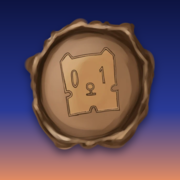
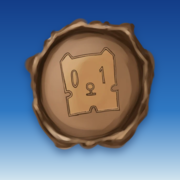
Switch to day theme

diff --git a/css/styles.css b/css/styles.css
@@ -1,26 +1,26 @@
 /* ==========================================================================
-   Hack the Toon: "Blue hour on the Tyne"
+   Hack the Toon: "A bright day on the Tyne"
 
    The page is painted in the same medium as the commissions: one watercolour
-   of the Tyne at dusk. A French ultramarine sky, spattered with white gouache
-   for stars, warms through violet and rose to the last light on the horizon,
-   and the river at the foot of the page catches the sunset. A moon rises
-   behind the magpie, the words sit on sheets of watercolour paper, and Metro
-   yellow is kept for the things you press.
+   of the Tyne on a clear summer's day. A deep cobalt sky, with clouds drifting
+   across it, pales to haze at the horizon, and the river at the foot of the
+   page glints in the sun. The sun sits behind the magpie, the words sit on
+   sheets of watercolour paper, and Metro yellow is kept for the things you
+   press.
    ========================================================================== */
 
 :root {
   /* The wash */
-  --night: #080c26;        /* the very top and bottom of the page, and the browser bars */
-  --indigo: #10184e;
-  --ultramarine: #1d3593;
+  --zenith: #133d88;       /* the very top and bottom of the page, and the browser bars */
+  --cobalt: #1b55a8;
+  --cerulean: #2569b8;
 
-  /* Light, as RGB channels so it can be used at any strength: rgb(var(--lamp) / 0.4) */
-  --lamp: 255 176 92;      /* sodium floodlight on sandstone */
+  /* Light, as RGB channels so it can be used at any strength: rgb(var(--sun) / 0.4) */
+  --sun: 255 196 92;       /* sunlight on sandstone */
 
   /* Paper and ink */
   --cream: #f6eedf;
-  --mist: #dcdff2;         /* body copy on the wash: cream, cooled by the blue */
+  --mist: #f1f4fb;         /* body copy on the wash: cream, cooled by the blue */
   --card: #fbf6ea;
   --ink: #1c1a2b;
   --ink-soft: #565266;
@@ -46,9 +46,9 @@
    page is pulled past either end. The wash starts and ends on this colour, so
    those strips read as more sky. Keep it in step with theme-color. */
 html,
-body { background: var(--night); }
+body { background: var(--zenith); }
 
-/* Dark scrollbars on the night; the form controls on paper stay light */
+/* Dark scrollbars against the sky; the form controls on paper stay light */
 html { -webkit-text-size-adjust: 100%; color-scheme: dark; }
 .panel,
 .note { color-scheme: light; }
@@ -136,7 +136,7 @@ h1, h2 {
   background:
     radial-gradient(circle, rgb(255 199 44 / 0.07) 1px, transparent 1.4px) 0 0 / 4px 4px,
     #07080c;
-  /* The unit's housing, so it holds its own against the night */
+  /* The unit's housing, so it holds its own against the sky */
   box-shadow:
     0 0 0 1px rgb(255 255 255 / 0.08),
     inset 0 1px 0 rgb(255 255 255 / 0.05),
@@ -192,7 +192,7 @@ h1, h2 {
 .geordie__gloss::before { content: "Geordie: "; color: var(--brick); font-weight: 700; }
 .geordie:hover .geordie__gloss,
 .geordie:focus .geordie__gloss { opacity: 1; transform: translate(-50%, 0); }
-/* On paper, the gloss is the night instead */
+/* On paper, the gloss is dark instead */
 .note .geordie { text-decoration-color: var(--metro-deep); }
 .note .geordie__gloss { background: var(--ink); color: var(--cream); }
 .note .geordie__gloss::before { color: var(--metro); }
@@ -210,29 +210,30 @@ h1, h2 {
   min-height: 100vh;
   min-height: 100svh;
   overflow: hidden;
-  /* From the top: the grain of the paper, the Tyne catching the sunset, the
+  /* From the top: the grain of the paper, the Tyne glinting in the sun, the
      blooms and drifts of the wash, then the sky itself, laid in wet-in-wet
-     from night down to the last light on the horizon. The large textures are
-     WebP renders of the SVGs in assets/texture/src (see the README). */
+     from deep cobalt overhead down to the haze on the horizon. The large
+     textures are WebP renders of the SVGs in assets/texture/src (see the
+     README). */
   background:
     url("../assets/texture/granulation.svg") 0 0 / 240px 240px,
     url("../assets/texture/paper.svg") 0 0 / 320px 320px,
     url("../assets/texture/river.webp") 0 100% / 100% 9% no-repeat,
     url("../assets/texture/blooms.webp") center / cover no-repeat,
     url("../assets/texture/drift.webp") center / cover no-repeat,
-    radial-gradient(ellipse 60% 45% at 85% 28%, rgb(84 54 150 / 0.35), transparent 70%),
+    radial-gradient(ellipse 55% 45% at 82% 22%, rgb(120 180 240 / 0.35), transparent 70%),
     linear-gradient(
-      var(--night),
-      var(--indigo) 20%,
-      var(--ultramarine) 44%,
-      #34409f 60%,
-      #74508f 72%,
-      #d27466 83%,
-      #f3a35f 90.6%,
-      #a65a5f 91%,
-      #5a3558 93.5%,
-      #24204d 97%,
-      var(--night)
+      var(--zenith),
+      var(--cobalt) 20%,
+      var(--cerulean) 46%,
+      #3a80c6 60%,
+      #79b1dc 72%,
+      #c2dcea 82%,
+      #f2ecd8 90.6%,
+      #6d9fb8 91%,
+      #3a7598 94%,
+      #22548c 97.5%,
+      var(--zenith)
     );
   background-blend-mode: multiply, soft-light, normal, soft-light, multiply, normal, normal;
 }
@@ -245,35 +246,37 @@ h1, h2 {
   background: var(--floodlight);
   pointer-events: none;
 }
-/* White gouache flicked across the top of the sky, for stars */
+/* Clouds drifting slowly across the upper sky. The strip is one tile wider
+   than the page and slides by exactly one tile, so the loop is seamless; it
+   moves as a whole layer, so the browser never has to repaint the wash. */
 .page::after {
   content: "";
   position: absolute;
-  inset: 0;
+  top: 0;
+  left: 0;
   z-index: -1;
-  background:
-    url("../assets/texture/spatter.svg") 0 0 / 1000px 640px,
-    url("../assets/texture/spatter.svg") 430px 260px / 640px 410px;
-  -webkit-mask-image: linear-gradient(#000 20vh, transparent 75vh);
-  mask-image: linear-gradient(#000 20vh, transparent 75vh);
+  width: calc(100% + 1600px);
+  height: min(70vh, 640px);
+  background: url("../assets/texture/clouds.webp") 0 0 / 1600px 100% repeat-x;
+  opacity: 0.85;
   pointer-events: none;
-  animation: twinkle 5s ease-in-out infinite alternate;
+  animation: drift 240s linear infinite;
 }
-@keyframes twinkle { to { opacity: 0.55; } }
+@keyframes drift { to { transform: translateX(-1600px); } }
 
-/* Grey's Monument, floodlit from below */
+/* Sunlight warming the sandstone of Grey's Monument */
 .page--interest {
-  --floodlight: radial-gradient(ellipse 34vw 56vh at 100% 100%, rgb(var(--lamp) / 0.4), rgb(var(--lamp) / 0.12) 50%, transparent 74%);
+  --floodlight: radial-gradient(ellipse 34vw 56vh at 100% 100%, rgb(var(--sun) / 0.3), rgb(var(--sun) / 0.08) 50%, transparent 74%);
 }
 /* A haze of light behind the university arches, where the sketch of the
-   building above them would otherwise be lost in the dusk. It is measured
+   building above them would otherwise be lost against the blue. It is measured
    from the painting (866 x 1100), so it follows it at every size. */
 .page--thanks {
   --arches-h: clamp(220px, 44vh, 500px);
   --floodlight: radial-gradient(
     ellipse calc(var(--arches-h) * 0.62) calc(var(--arches-h) * 0.42)
     at calc(var(--arches-h) * 0.36) calc(100% - var(--arches-h) * 0.74),
-    rgb(255 222 190 / 0.5), rgb(255 200 160 / 0.16) 55%, transparent 75%
+    rgb(255 252 240 / 0.6), rgb(240 248 255 / 0.2) 55%, transparent 75%
   );
 }
 
@@ -329,7 +332,7 @@ h1, h2 {
   from {
     opacity: 0;
     transform: translateY(14px);
-    filter: saturate(0.2) blur(2px) drop-shadow(0 0 0 rgb(var(--lamp) / 0));
+    filter: saturate(0.2) blur(2px) drop-shadow(0 0 0 rgb(255 255 255 / 0));
   }
 }
 
@@ -352,11 +355,11 @@ h1, h2 {
   margin: 0 auto;
   padding: clamp(56px, 8vh, 96px) var(--gutter) clamp(16px, 3vh, 32px);
 }
-/* Above the panel, so the moon behind the magpie can never cover the words */
+/* Above the panel, so the sun behind the magpie can never cover the words */
 .interest__intro { grid-area: intro; align-self: end; position: relative; z-index: 1; }
 .panel { grid-area: panel; align-self: center; }
 
-/* The Tyne Bridge, under the headline, glowing in the lamplight */
+/* The Tyne Bridge, under the headline, in a soft haze of daylight */
 .interest__art {
   grid-area: art;
   align-self: start;
@@ -366,7 +369,7 @@ h1, h2 {
   object-fit: contain;
   object-position: left top;
   margin-left: -2%;
-  filter: saturate(1) blur(0) drop-shadow(0 0 48px rgb(var(--lamp) / 0.45));
+  filter: saturate(1) blur(0) drop-shadow(0 0 44px rgb(255 255 255 / 0.4));
   animation: develop 1.4s 0.3s ease-out both;
 }
 
@@ -376,7 +379,8 @@ h1, h2 {
   font-size: clamp(1.8rem, 4vw, 3rem);
   font-style: italic;
   font-weight: 400;
-  color: rgb(var(--lamp));
+  color: rgb(var(--sun));
+  text-shadow: 0 1px 2px rgb(19 61 136 / 0.5), 0 0 16px rgb(19 61 136 / 0.5);
 }
 .title__big {
   position: relative;
@@ -415,6 +419,8 @@ h1, h2 {
   margin: 0;
   font-size: clamp(1.05rem, 1.5vw, 1.2rem);
   color: var(--mist);
+  /* A soft shadow of the sky, so the words hold up when a cloud drifts behind */
+  text-shadow: 0 1px 2px rgb(19 61 136 / 0.5), 0 0 14px rgb(19 61 136 / 0.55);
 }
 
 .interest__intro > *,
@@ -448,9 +454,9 @@ h1, h2 {
   z-index: -1;
   background:
     url("../assets/texture/paper.svg") 0 0 / 320px 320px,
-    /* moonlight from above, and the last of the sunset from below */
-    radial-gradient(120% 70% at 85% 0%, #fffdf8, transparent 65%),
-    linear-gradient(to top, rgb(255 186 130 / 0.16), transparent 35%),
+    /* sunlight from above, and a little blue reflected from the sky below */
+    radial-gradient(120% 70% at 85% 0%, #fffef8, transparent 65%),
+    linear-gradient(to top, rgb(150 190 230 / 0.12), transparent 35%),
     var(--card);
   background-blend-mode: soft-light, normal, normal, normal;
   /* The torn edge. It is inline rather than a file because browsers fetch mask
@@ -460,23 +466,23 @@ h1, h2 {
   -webkit-mask: var(--deckle) 0 0 / 100% 100% no-repeat;
   mask: var(--deckle) 0 0 / 100% 100% no-repeat;
 }
-/* A moon rising behind the sheet, for the magpie to stand against */
+/* The sun, rising behind the sheet, for the magpie to stand against */
 .panel::before {
   /* The disc is just over half the width of the image (the rest is its halo):
      about 1.3 magpies across, centred a third of a magpie above the edge */
-  --moon: calc(var(--magpie-h) * 2.44);
+  --sun-size: calc(var(--magpie-h) * 2.44);
   content: "";
   position: absolute;
   z-index: -1;
-  right: calc(var(--perch) + var(--magpie-h) * 0.42 - var(--moon) / 2);
-  bottom: calc(100% + var(--magpie-h) * 0.34 - var(--moon) / 2);
-  width: var(--moon);
-  height: var(--moon);
-  background: url("../assets/texture/moon.svg") center / contain no-repeat;
+  right: calc(var(--perch) + var(--magpie-h) * 0.42 - var(--sun-size) / 2);
+  bottom: calc(100% + var(--magpie-h) * 0.34 - var(--sun-size) / 2);
+  width: var(--sun-size);
+  height: var(--sun-size);
+  background: url("../assets/texture/sun.svg") center / contain no-repeat;
   pointer-events: none;
-  animation: moonrise 1.8s 0.2s cubic-bezier(.2, .7, .2, 1) both;
+  animation: sunrise 1.8s 0.2s cubic-bezier(.2, .7, .2, 1) both;
 }
-@keyframes moonrise {
+@keyframes sunrise {
   from { opacity: 0; transform: translateY(30%); }
 }
 .panel__title { font-size: clamp(2rem, 3vw, 2.5rem); font-weight: 700; }
@@ -572,7 +578,7 @@ h1, h2 {
 .form__small { margin: -4px 0 0; font-size: 0.85rem; color: var(--ink-soft); text-align: center; }
 
 /* --------------------------------------------------------------------------
-   Thank you: the Metro pulls in, drawn in light, then the note is sealed
+   Thank you: the Metro pulls in, drawn in white pencil, then the note is sealed
    -------------------------------------------------------------------------- */
 .thanks {
   position: relative;
@@ -615,17 +621,18 @@ h1, h2 {
   width: 150%;
   height: 120%;
   transform: translateX(-50%);
-  background: radial-gradient(closest-side, rgb(var(--lamp) / 0.28), transparent);
+  background: radial-gradient(closest-side, rgb(255 255 255 / 0.18), transparent);
   pointer-events: none;
   animation: develop 1.2s 1.6s ease-out both;
 }
-/* The pencil drawing is inverted so it reads as white pencil on dark paper */
+/* The pencil drawing is inverted so it reads as white pencil against the deep
+   blue at the top of the sky */
 .arrival__train {
   position: relative;
   z-index: 1;
   width: 100%;
   height: auto;
-  filter: invert(1) drop-shadow(0 0 0 rgb(255 246 228 / 0.7)) drop-shadow(0 0 7px rgb(255 214 140 / 0.45));
+  filter: invert(1) drop-shadow(0 0 0 rgb(255 255 255 / 0.7)) drop-shadow(0 0 6px rgb(255 255 255 / 0.4));
   animation: pull-in 2.6s 0.3s cubic-bezier(.12, .7, .25, 1.02) both;
 }
 @keyframes pull-in {
@@ -746,7 +753,7 @@ h1, h2 {
     grid-template-areas: "intro" "panel" "art";
     row-gap: var(--stack-gap);
   }
-  /* Clear space above the form for the moon and the magpie, which would
+  /* Clear space above the form for the sun and the magpie, which would
      otherwise rise into the last lines of the intro on narrow phones */
   .panel { margin-top: calc(var(--magpie-h) + 12px - var(--stack-gap)); }
   .interest__art {
@@ -756,9 +763,9 @@ h1, h2 {
     margin: 0;
   }
   .corner--right { display: none; }
-  /* With the Monument gone, the floodlight is on the bridge instead */
+  /* With the Monument gone, the sunlight falls on the bridge instead */
   .page--interest {
-    --floodlight: radial-gradient(ellipse 90vw 46vh at 50% 100%, rgb(var(--lamp) / 0.32), transparent 72%);
+    --floodlight: radial-gradient(ellipse 90vw 46vh at 50% 100%, rgb(var(--sun) / 0.2), transparent 72%);
   }
   /* Room at the bottom of the thank-you page for the corner paintings */
   .thanks { padding-bottom: clamp(150px, 26vh, 240px); }

diff --git a/index.html b/index.html
@@ -5,7 +5,7 @@
   <meta name="viewport" content="width=device-width, initial-scale=1">
   <title>Hack the Toon · Register your interest</title>
   <meta name="description" content="Hack the Toon is a 24hr student hackathon in Newcastle. Register your interest and we'll be in touch.">
-  <meta name="theme-color" content="#080c26">
+  <meta name="theme-color" content="#133d88">
   <link rel="icon" href="assets/favicon.ico" sizes="any">
   <link rel="icon" href="assets/favicon-48.png" type="image/png">
   <link rel="apple-touch-icon" href="assets/apple-touch-icon.png">
@@ -46,7 +46,7 @@
           <span class="title__big">Toon<span class="title__stop">!</span></span>
         </h1>
         <p class="interest__lede">
-          Newcastle&rsquo;s student hackathon is under construction. 24 hours of hacking, and free
+          Newcastle University&rsquo;s student hackathon is under construction. 24 hours of hacking, and free
           <span class="geordie" tabindex="0">bait<span class="geordie__gloss" role="tooltip">food, specifically, midnight pizza</span></span>
           in the Toon. Every skill level is welcome.
         </p>

diff --git a/thanks.html b/thanks.html
@@ -5,7 +5,7 @@
   <meta name="viewport" content="width=device-width, initial-scale=1">
   <title>Hack the Toon · Thank you</title>
   <meta name="robots" content="noindex">
-  <meta name="theme-color" content="#080c26">
+  <meta name="theme-color" content="#133d88">
   <link rel="icon" href="assets/favicon.ico" sizes="any">
   <link rel="icon" href="assets/favicon-48.png" type="image/png">
   <link rel="apple-touch-icon" href="assets/apple-touch-icon.png">
